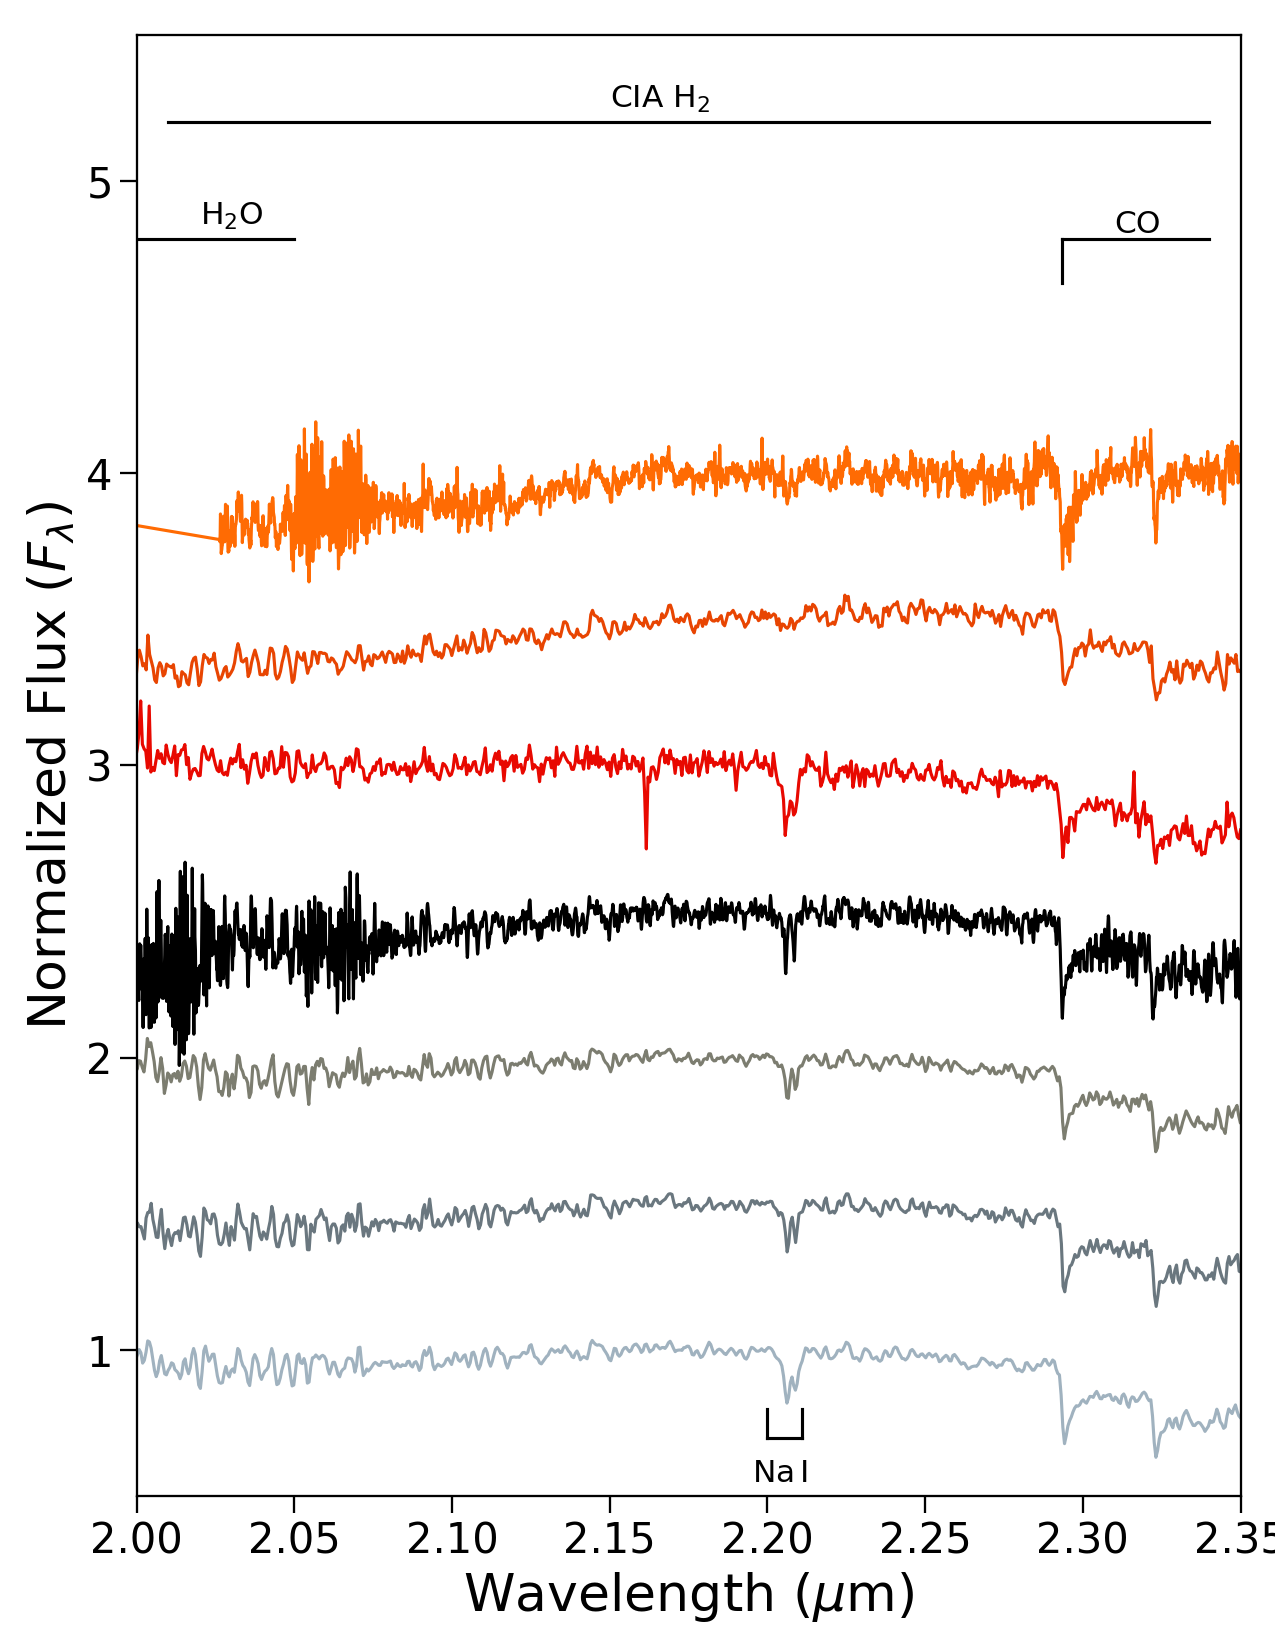
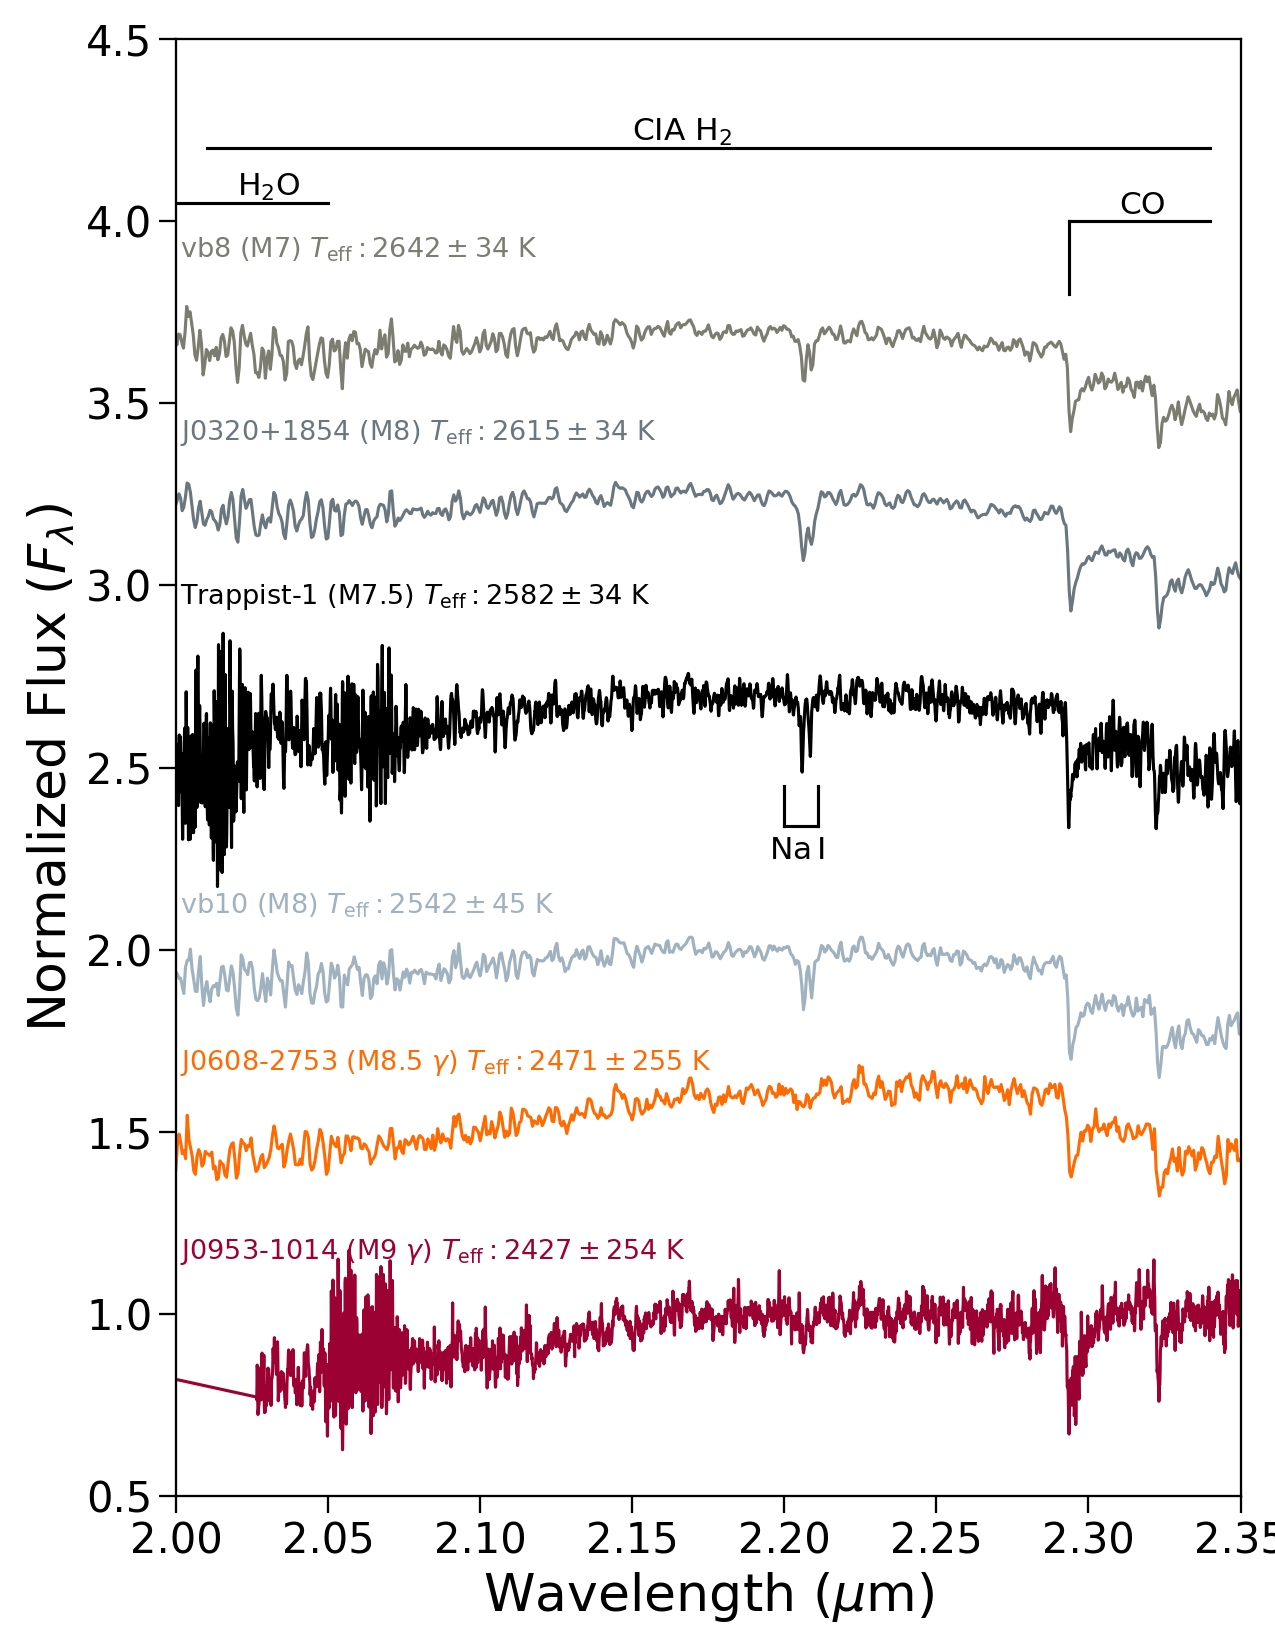
New version of figures for band-by-band teff sample, in teff order

diff --git a/Jbandteffcomp.py b/Jbandteffcomp.py
@@ -14,13 +14,10 @@ df_trap = pd.read_csv('Data/Gaia2306-0502 (M7.5) SED.txt', sep=" ", comment='#',
 df_vb8 = pd.read_csv('Data/field_comp/Gaia1655-0823 (M7) SED.txt', sep=" ", comment='#', header=None,
                        names=["w", "f", "err"])
 df_vb10 = pd.read_csv('Data/field_comp/Gaia1916+0508 (M8) SED.txt', sep=" ", comment='#', header=None,
-                       names=["w", "f", "err"])
-df_0320 = pd.read_csv('Data/field_comp/Gaia0320+1854 (M8) SED.txt', sep=" ", comment='#', header=None,
-                       names=["w", "f", "err"])
-
-# -------------- Comparison objects of the same Teff (young) ----------------------------------
-df_0253 = pd.read_csv('Data/young_comp/Gaia0253+3206 (M7beta) SED.txt', sep=" ", comment='#', header=None,
                       names=["w", "f", "err"])
+df_0320 = pd.read_csv('Data/field_comp/Gaia0320+1854 (M8) SED.txt', sep=" ", comment='#', header=None,
+                      names=["w", "f", "err"])
+# ----Young----
 df_0953 = pd.read_csv('Data/young_comp/Gaia0953-1014 (L0gamma) SED.txt', sep=" ", comment='#', header=None,
                       names=["w", "f", "err"])
 df_0608 = pd.read_csv('Data/young_comp/Gaia0608-2753 (M8.5gamma) SED.txt', sep=" ", comment='#', header=None,
@@ -42,9 +39,6 @@ norm_df_vb10 = df_vb10['f']/(np.average(norm_region7['f']))
 norm_region8 = df_0320[(df_0320['w'] >= 1.22) & (df_0320['w'] <= 1.23)]
 norm_df_0320 = df_0320['f']/(np.average(norm_region8['f']))
 
-norm_region5 = df_0253[(df_0253['w'] >= 1.22) & (df_0253['w'] <= 1.23)]
-norm_df_0253 = df_0253['f']/(np.average(norm_region5['f']))
-
 norm_region3 = df_0953[(df_0953['w'] >= 1.22) & (df_0953['w'] <= 1.23)]
 norm_df_0953 = df_0953['f']/(np.average(norm_region3['f']))
 
@@ -61,89 +55,92 @@ ax1 = fig.add_subplot(111)
 fig.set_size_inches(8.5, 11)
 plt.gcf().subplots_adjust(bottom=0.15, left=0.15)
 plt.xlim([1.12, 1.35])
-plt.ylim([0.25, 6])
+plt.ylim([0.25, 7])
 for axis in ['top', 'bottom', 'left', 'right']:  # Thicken the frame
     ax1.spines[axis].set_linewidth(1.1)
 
-# ------Tick size and Axes Labels --------
+# ------Tick size, Axes Labels, and layout --------
 ax1.tick_params(axis='both', labelsize=20, length=8, width=1.1)
 plt.xlabel('Wavelength ($\mu$m)', fontsize=25)
 plt.ylabel('Normalized Flux ($F_\lambda$)', fontsize=25)
+plt.tight_layout()
 
-# -------- Add data -----------
-ax1.plot(df_0320['w'], norm_df_0320, c='#A0B2BF')
-ax1.plot(df_vb10['w'], norm_df_vb10 + 0.6, c='#6A777F')
-ax1.plot(df_vb8['w'], norm_df_vb8 + 1.1, c='#7C7D70')
-ax1.plot(df_trap['w'], norm_df_trap + 1.8, c='k')
-ax1.plot(df_0253['w'], norm_df_0253 + 2.3, c='#E80901')  # M7 beta
-ax1.plot(df_0608['w'], norm_df_0608 + 2.75, c='#E84502')  # M8.5 gamma
-ax1.plot(df_0953['w'], norm_df_0953 + 3.25, c='#FF6B03')   # M9 gamma
+# -------- Add data and Label Sources-----------
+ax1.plot(df_0953['w'], norm_df_0953, c='#9B0132')
+ax1.annotate('J0953-1014 (M9 $\gamma$) $T_\mathrm{eff}: 2427 \pm 254$ K', xy=(1.121, 1.4), color='#9B0132', fontsize=13)
+ax1.plot(df_0608['w'], norm_df_0608 + 1, c='#FF6B03')
+ax1.annotate('J0608-2753 (M8.5 $\gamma$) $T_\mathrm{eff}: 2471 \pm 255$ K', xy=(1.121, 2.2), color='#FF6B03', fontsize=13)
+ax1.plot(df_vb10['w'], norm_df_vb10 + 2, c='#A0B2BF')
+ax1.annotate('vb10 (M8) $T_\mathrm{eff}: 2542 \pm 45$ K', xy=(1.121, 3.2), color='#A0B2BF', fontsize=13)
+ax1.plot(df_trap['w'], norm_df_trap + 3, c='k')
+ax1.annotate('Trappist-1 (M7.5) $T_\mathrm{eff}: 2582 \pm 34$ K', xy=(1.121, 4.3), color='k', fontsize=13)
+ax1.plot(df_0320['w'], norm_df_0320 + 4, c='#6A777F')
+ax1.annotate('J0320+1854 (M8) $T_\mathrm{eff}: 2615 \pm 34$ K', xy=(1.121, 5.2), color='#6A777F', fontsize=13)
+ax1.plot(df_vb8['w'], norm_df_vb8 + 5, c='#7C7D70')
+ax1.annotate('vb8 (M7) $T_\mathrm{eff}: 2642 \pm 34$ K', xy=(1.121, 6.2), color='#7C7D70', fontsize=13)
 
 
 # ------- Label Features --------------------------
 NaI = pd.DataFrame()
-NaI['x'] = [1.13656, 1.14269]
-NaI['y'] = [0.43, 0.43]
+NaI['x'] = [1.1383850, 1.1383850]
+NaI['y'] = [6.5, 6.7]
 plt.plot(NaI['x'], NaI['y'], color='k')
-ax1.annotate('Na$\,$I', xy=(1.133, .265), color='k', fontsize=15)
-# ----- Making each of the vertical lines on each end --------
+ax1.annotate('Na$\,$I', xy=(1.133, 6.75), color='k', fontsize=15)
 NaId = pd.DataFrame()
-NaId['x'] = [1.13656, 1.13656]
-NaId['y'] = [0.43, 0.53]
+NaId['x'] = [1.1408517, 1.1408517]
+NaId['y'] = [6.5, 6.7]
 plt.plot(NaId['x'], NaId['y'], color='k')
-NaId2 = pd.DataFrame()
-NaId2['x'] = [1.14269, 1.14269]
-NaId2['y'] = [0.43, 0.53]
-plt.plot(NaId2['x'], NaId2['y'], color='k')
+NaIhor = pd.DataFrame()
+NaIhor['x'] = [1.1383850, 1.1408517]
+NaIhor['y'] = [6.7, 6.7]
+plt.plot(NaIhor['x'], NaIhor['y'], color='k')
 
 KI1 = pd.DataFrame()
-KI1['x'] = [1.16569, 1.18225]
-KI1['y'] = [0.4, 0.4]
+KI1['x'] = [1.1692427, 1.1692427]
+KI1['y'] = [6.5, 6.7]
 plt.plot(KI1['x'], KI1['y'], color='k')
-ax1.annotate('K$\,$I', xy=(1.17, .265), color='k', fontsize=15)
-# ----- Making each of the vertical lines on each end --------
+ax1.annotate('K$\,$I', xy=(1.17, 6.75), color='k', fontsize=15)
 KI1up1 = pd.DataFrame()
-KI1up1['x'] = [1.16569, 1.16569]
-KI1up1['y'] = [0.4, 0.53]
+KI1up1['x'] = [1.1778406, 1.1778406]
+KI1up1['y'] = [6.5, 6.7]
 plt.plot(KI1up1['x'], KI1up1['y'], color='k')
-KI1up2 = pd.DataFrame()
-KI1up2['x'] = [1.18225, 1.18225]
-KI1up2['y'] = [0.4, 0.53]
-plt.plot(KI1up2['x'], KI1up2['y'], color='k')
+KI1hor = pd.DataFrame()
+KI1hor['x'] = [1.1692427, 1.1778406]
+KI1hor['y'] = [6.7, 6.7]
+plt.plot(KI1hor['x'], KI1hor['y'], color='k')
 
 FeH = pd.DataFrame()
 FeH['x'] = [1.19, 1.24]
-FeH['y'] = [5.25, 5.25]
+FeH['y'] = [6.7, 6.7]
 plt.plot(FeH['x'], FeH['y'], color='k')
-ax1.annotate('FeH', xy=(1.2, 5.3), color='k', fontsize=15)
+ax1.annotate('FeH', xy=(1.2, 6.75), color='k', fontsize=15)
 FeHd = pd.DataFrame()
 FeHd['x'] = [1.19, 1.19]
-FeHd['y'] = [5.25, 5.1]
+FeHd['y'] = [6.5, 6.7]
 plt.plot(FeHd['x'], FeHd['y'], color='k')
 
 KI2 = pd.DataFrame()
-KI2['x'] = [1.24175, 1.25616]
-KI2['y'] = [0.5, 0.5]
+KI2['x'] = [1.2436839, 1.2528860]
+KI2['y'] = [6.5, 6.5]
 plt.plot(KI2['x'], KI2['y'], color='k')
-ax1.annotate('K$\,$I', xy=(1.245, 0.35), color='k', fontsize=15)
+ax1.annotate('K$\,$I', xy=(1.245, 6.55), color='k', fontsize=15)
 KI2up1 = pd.DataFrame()
-KI2up1['x'] = [1.24175, 1.24175]
-KI2up1['y'] = [0.5, 0.6]
+KI2up1['x'] = [1.2436839, 1.2436839]
+KI2up1['y'] = [6.3, 6.5]
 plt.plot(KI2up1['x'], KI2up1['y'], color='k')
 KI2up2 = pd.DataFrame()
-KI2up2['x'] = [1.25616, 1.25616]
-KI2up2['y'] = [0.5, 0.6]
+KI2up2['x'] = [1.2528860, 1.2528860]
+KI2up2['y'] = [6.3, 6.5]
 plt.plot(KI2up2['x'], KI2up2['y'], color='k')
 
 H2O = pd.DataFrame()
 H2O['x'] = [1.32, 1.35]
-H2O['y'] = [5.35, 5.35]
+H2O['y'] = [6.35, 6.35]
 plt.plot(H2O['x'], H2O['y'], color='k')
-ax1.annotate('H$_\mathrm{2} $O', xy=(1.33, 5.4), color='k', fontsize=15)
+ax1.annotate('H$_\mathrm{2} $O', xy=(1.33, 6.4), color='k', fontsize=15)
 H2Od = pd.DataFrame()
 H2Od['x'] = [1.32, 1.32]
-H2Od['y'] = [5.2, 5.35]
+H2Od['y'] = [6.2, 6.35]
 plt.plot(H2Od['x'], H2Od['y'], color='k')
 
-plt.tight_layout()
 plt.savefig('Figures/Jbandteffcomp.png', dpi=150)

diff --git a/Kbandteffcomp.py b/Kbandteffcomp.py
@@ -6,20 +6,18 @@ import matplotlib.pyplot as plt
 # ------------------- Read in Spectra and Photometry files ---------------------------
 # ------------------------------------------------------------------------------------
 # Read  all in as pandas dataframes
-df_trap = pd.read_csv('Data/FIRE2306-0502 (M7.5) SED.txt', sep=" ", comment='#', header=None,
+df_trap = pd.read_csv('Data/Gaia2306-0502 (M7.5) SED.txt', sep=" ", comment='#', header=None,
                       names=["w", "f", "err"])
 
 # Comparison objects with same Teff
 # ----Field---
-df_vb8 = pd.read_csv('Data/field_comp/1655-0823 (M7) SED.txt', sep=" ", comment='#', header=None,
+df_vb8 = pd.read_csv('Data/field_comp/Gaia1655-0823 (M7) SED.txt', sep=" ", comment='#', header=None,
                        names=["w", "f", "err"])
-df_vb10 = pd.read_csv('Data/field_comp/1916+0508 (M8) SED.txt', sep=" ", comment='#', header=None,
-                       names=["w", "f", "err"])
-df_0320 = pd.read_csv('Data/field_comp/0320+1854 (M8) SED.txt', sep=" ", comment='#', header=None,
-                       names=["w", "f", "err"])
-# ----Young----
-df_0253 = pd.read_csv('Data/young_comp/Gaia0253+3206 (M7beta) SED.txt', sep=" ", comment='#', header=None,
+df_vb10 = pd.read_csv('Data/field_comp/Gaia1916+0508 (M8) SED.txt', sep=" ", comment='#', header=None,
                       names=["w", "f", "err"])
+df_0320 = pd.read_csv('Data/field_comp/Gaia0320+1854 (M8) SED.txt', sep=" ", comment='#', header=None,
+                      names=["w", "f", "err"])
+# ----Young----
 df_0953 = pd.read_csv('Data/young_comp/Gaia0953-1014 (L0gamma) SED.txt', sep=" ", comment='#', header=None,
                       names=["w", "f", "err"])
 df_0608 = pd.read_csv('Data/young_comp/Gaia0608-2753 (M8.5gamma) SED.txt', sep=" ", comment='#', header=None,
@@ -41,9 +39,6 @@ norm_df_vb10 = df_vb10['f']/(np.average(norm_region7['f']))
 norm_region8 = df_0320[(df_0320['w'] >= 2.16) & (df_0320['w'] <= 2.20)]
 norm_df_0320 = df_0320['f']/(np.average(norm_region8['f']))
 
-norm_region3 = df_0253[(df_0253['w'] >= 2.16) & (df_0253['w'] <= 2.20)]
-norm_df_0253 = df_0253['f']/(np.average(norm_region3['f']))
-
 norm_region4 = df_0953[(df_0953['w'] >= 2.16) & (df_0953['w'] <= 2.20)]
 norm_df_0953 = df_0953['f']/(np.average(norm_region4['f']))
 
@@ -59,7 +54,7 @@ ax1 = fig.add_subplot(111)
 fig.set_size_inches(8.5, 11)  # make figure size skinner to get more curvature of K-band 5 x 11 is ok
 plt.gcf().subplots_adjust(bottom=0.15, left=0.15)
 plt.xlim([2.0, 2.35])
-plt.ylim([0.5, 5.5])
+plt.ylim([0.5, 4.5])
 for axis in ['top', 'bottom', 'left', 'right']:  # Thicken the frame
     ax1.spines[axis].set_linewidth(1.1)
 
@@ -68,52 +63,56 @@ ax1.tick_params(axis='both', labelsize=20, length=8, width=1.1)
 plt.xlabel('Wavelength ($\mu$m)', fontsize=25)
 plt.ylabel('Normalized Flux ($F_\lambda$)', fontsize=25)
 
-# -------- Add data -----------
-ax1.plot(df_0320['w'], norm_df_0320, c='#A0B2BF')
-ax1.plot(df_vb10['w'], norm_df_vb10 + 0.5, c='#6A777F')
-ax1.plot(df_vb8['w'], norm_df_vb8 + 1, c='#7C7D70')
-ax1.plot(df_trap['w'], norm_df_trap + 1.5, c='k')
-ax1.plot(df_0253['w'], norm_df_0253 + 2, c='#E80901')
-ax1.plot(df_0608['w'], norm_df_0608 + 2.5, c='#E84502')
-ax1.plot(df_0953['w'], norm_df_0953 + 3, c='#FF6B03')
-
+# -------- Add data and Label Sources-----------
+ax1.plot(df_0953['w'], norm_df_0953, c='#9B0132')
+ax1.annotate('J0953-1014 (M9 $\gamma$) $T_\mathrm{eff}: 2427 \pm 254$ K', xy=(2.001, 1.15), color='#9B0132', fontsize=13)
+ax1.plot(df_0608['w'], norm_df_0608 + 0.6, c='#FF6B03')
+ax1.annotate('J0608-2753 (M8.5 $\gamma$) $T_\mathrm{eff}: 2471 \pm 255$ K', xy=(2.001, 1.67), color='#FF6B03', fontsize=13)
+ax1.plot(df_vb10['w'], norm_df_vb10 + 1, c='#A0B2BF')
+ax1.annotate('vb10 (M8) $T_\mathrm{eff}: 2542 \pm 45$ K', xy=(2.001, 2.1), color='#A0B2BF', fontsize=13)
+ax1.plot(df_trap['w'], norm_df_trap + 1.7, c='k')
+ax1.annotate('Trappist-1 (M7.5) $T_\mathrm{eff}: 2582 \pm 34$ K', xy=(2.001, 2.95), color='k', fontsize=13)
+ax1.plot(df_0320['w'], norm_df_0320 + 2.25, c='#6A777F')
+ax1.annotate('J0320+1854 (M8) $T_\mathrm{eff}: 2615 \pm 34$ K', xy=(2.001, 3.4), color='#6A777F', fontsize=13)
+ax1.plot(df_vb8['w'], norm_df_vb8 + 2.7, c='#7C7D70')
+ax1.annotate('vb8 (M7) $T_\mathrm{eff}: 2642 \pm 34$ K', xy=(2.001, 3.9), color='#7C7D70', fontsize=13)
 
 # ------- Label Features --------------------------
 H2O = pd.DataFrame()
 H2O['x'] = [2.00, 2.05]
-H2O['y'] = [4.8, 4.8]
+H2O['y'] = [4.05, 4.05]
 plt.plot(H2O['x'], H2O['y'], color='k')
-ax1.annotate('H$_\mathrm{2} $O', xy=(2.02, 4.85), color='k', fontsize=15)
+ax1.annotate('H$_\mathrm{2} $O', xy=(2.02, 4.07), color='k', fontsize=15)
 
 CIA_H2 = pd.DataFrame()
 CIA_H2['x'] = [2.01, 2.34]
-CIA_H2['y'] = [5.2, 5.2]
+CIA_H2['y'] = [4.2, 4.2]
 plt.plot(CIA_H2['x'], CIA_H2['y'], color='k')
-ax1.annotate('CIA H$_\mathrm{2} $', xy=(2.15, 5.25), color='k', fontsize=15)
+ax1.annotate('CIA H$_\mathrm{2} $', xy=(2.15, 4.22), color='k', fontsize=15)
 
 NaI = pd.DataFrame()
 NaI['x'] = [2.20, 2.211]
-NaI['y'] = [0.7, 0.7]
+NaI['y'] = [2.34, 2.34]
 plt.plot(NaI['x'], NaI['y'], color='k')
-ax1.annotate('Na$\,$I', xy=(2.195, .55), color='k', fontsize=15)
+ax1.annotate('Na$\,$I', xy=(2.195, 2.25), color='k', fontsize=15)
 # ----- Making each of the vertical lines on each end --------
 NaId = pd.DataFrame()
 NaId['x'] = [2.20, 2.20]
-NaId['y'] = [0.7, 0.8]
+NaId['y'] = [2.34, 2.45]
 plt.plot(NaId['x'], NaId['y'], color='k')
 NaId2 = pd.DataFrame()
 NaId2['x'] = [2.211, 2.211]
-NaId2['y'] = [0.7, 0.8]
+NaId2['y'] = [2.34, 02.45]
 plt.plot(NaId2['x'], NaId2['y'], color='k')
 
 CO = pd.DataFrame()
 CO['x'] = [2.29352, 2.34]
-CO['y'] = [4.8, 4.8]
+CO['y'] = [4, 4]
 plt.plot(CO['x'], CO['y'], color='k')
-ax1.annotate('CO', xy=(2.31, 4.82), color='k', fontsize=15)
+ax1.annotate('CO', xy=(2.31, 4.02), color='k', fontsize=15)
 COd = pd.DataFrame()
 COd['x'] = [2.29352, 2.29352]
-COd['y'] = [4.65, 4.8]
+COd['y'] = [3.8, 4]
 plt.plot(COd['x'], COd['y'], color='k')
 
 plt.tight_layout()

diff --git a/HbandTeffcomp.py b/HbandTeffcomp.py
@@ -6,29 +6,26 @@ import matplotlib.pyplot as plt
 # ------------------- Read in Spectra and Photometry files ---------------------------
 # ------------------------------------------------------------------------------------
 # Read  all in as pandas dataframes
-df_trap = pd.read_csv('Data/FIRE2306-0502 (M7.5) SED.txt', sep=" ", comment='#', header=None,
+df_trap = pd.read_csv('Data/Gaia2306-0502 (M7.5) SED.txt', sep=" ", comment='#', header=None,
                       names=["w", "f", "err"])
 
 # Comparison objects with same Teff
 # ----Field---
-df_vb8 = pd.read_csv('Data/field_comp/1655-0823 (M7) SED.txt', sep=" ", comment='#', header=None,
-                     names=["w", "f", "err"])
-df_vb10 = pd.read_csv('Data/field_comp/1916+0508 (M8) SED.txt', sep=" ", comment='#', header=None,
+df_vb8 = pd.read_csv('Data/field_comp/Gaia1655-0823 (M7) SED.txt', sep=" ", comment='#', header=None,
                        names=["w", "f", "err"])
-df_0320 = pd.read_csv('Data/field_comp/0320+1854 (M8) SED.txt', sep=" ", comment='#', header=None,
-                       names=["w", "f", "err"])
-# ----Young----
-df_0253 = pd.read_csv('Data/young_comp/Gaia0253+3206 (M7beta) SED.txt', sep=" ", comment='#', header=None,
+df_vb10 = pd.read_csv('Data/field_comp/Gaia1916+0508 (M8) SED.txt', sep=" ", comment='#', header=None,
                       names=["w", "f", "err"])
+df_0320 = pd.read_csv('Data/field_comp/Gaia0320+1854 (M8) SED.txt', sep=" ", comment='#', header=None,
+                      names=["w", "f", "err"])
+# ----Young----
 df_0953 = pd.read_csv('Data/young_comp/Gaia0953-1014 (L0gamma) SED.txt', sep=" ", comment='#', header=None,
                       names=["w", "f", "err"])
 df_0608 = pd.read_csv('Data/young_comp/Gaia0608-2753 (M8.5gamma) SED.txt', sep=" ", comment='#', header=None,
                       names=["w", "f", "err"])
 
+
 # -------- Drop a few spikes aka bad points (may not need with smoothing)----------------
-df_0253 = df_0253[(df_0253['w'] >= 1.42) & (df_0253['w'] <= 1.80)]
 df_0953 = df_0953[(df_0953['w'] >= 1.42) & (df_0953['w'] <= 1.80)]
-df_0253 = df_0253.drop(df_0253['f'].argmax())
 # Four bad points
 df_0953 = df_0953.drop(df_0953['f'].argmax())
 df_0953 = df_0953.drop(df_0953['f'].argmax())
@@ -50,9 +47,6 @@ norm_df_vb10 = df_vb10['f']/(np.average(norm_region7['f']))
 
 norm_region8 = df_0320[(df_0320['w'] >= 1.5) & (df_0320['w'] <= 1.52)]
 norm_df_0320 = df_0320['f']/(np.average(norm_region8['f']))
-
-norm_region3 = df_0253[(df_0253['w'] >= 1.5) & (df_0253['w'] <= 1.52)]
-norm_df_0253 = df_0253['f']/(np.average(norm_region3['f']))
 
 norm_region4 = df_0953[(df_0953['w'] >= 1.5) & (df_0953['w'] <= 1.52)]
 norm_df_0953 = df_0953['f']/(np.average(norm_region4['f']))
@@ -96,41 +90,47 @@ for axis in ['top', 'bottom', 'left', 'right']:  # Thicken the frame
 ax1.tick_params(axis='both', labelsize=20, length=8, width=1.1)
 plt.xlabel('Wavelength ($\mu$m)', fontsize=25)
 plt.ylabel('Normalized Flux ($F_\lambda$)', fontsize=25)
+plt.tight_layout()
 
-# -------- Add data -----------
-ax1.plot(df_0320['w'], norm_df_0320, c='#A0B2BF')
-ax1.plot(df_vb10['w'], norm_df_vb10 + 0.3, c='#6A777F')
-ax1.plot(df_vb8['w'], norm_df_vb8 + 0.6, c='#7C7D70')
-ax1.plot(df_trap['w'], norm_df_trap + 0.9, c='k')
-ax1.plot(df_0253['w'], norm_df_0253 + 1.3, c='#E80901')
-ax1.plot(df_0608['w'], norm_df_0608 + 1.7, c='#E84502')
-ax1.plot(df_0953['w'], norm_df_0953 + 2.1, c='#FF6B03')
+# -------- Add data and Label Sources-----------
+ax1.plot(df_0953['w'], norm_df_0953, c='#9B0132')
+ax1.annotate('J0953-1014 (M9 $\gamma$) $T_\mathrm{eff}: 2427 \pm 254$ K', xy=(1.421, 0.7), color='#9B0132', fontsize=13)
+ax1.plot(df_0608['w'], norm_df_0608 + 0.5, c='#FF6B03')
+ax1.annotate('J0608-2753 (M8.5 $\gamma$) $T_\mathrm{eff}: 2471 \pm 255$ K', xy=(1.421, 1.9), color='#FF6B03', fontsize=13)
+ax1.plot(df_vb10['w'], norm_df_vb10 + 1.2, c='#A0B2BF')
+ax1.annotate('vb10 (M8) $T_\mathrm{eff}: 2542 \pm 45$ K', xy=(1.421, 2.35), color='#A0B2BF', fontsize=13)
+ax1.plot(df_trap['w'], norm_df_trap + 1.7, c='k')
+ax1.annotate('Trappist-1 (M7.5) $T_\mathrm{eff}: 2582 \pm 34$ K', xy=(1.421, 2.95), color='k', fontsize=13)
+ax1.plot(df_0320['w'], norm_df_0320 + 2.2, c='#6A777F')
+ax1.annotate('J0320+1854 (M8) $T_\mathrm{eff}: 2615 \pm 34$ K', xy=(1.421, 3.4), color='#6A777F', fontsize=13)
+ax1.plot(df_vb8['w'], norm_df_vb8 + 2.7, c='#7C7D70')
+ax1.annotate('vb8 (M7) $T_\mathrm{eff}: 2642 \pm 34$ K', xy=(1.421, 3.9), color='#7C7D70', fontsize=13)
 
 # ------- Label Features --------------------------
 H2O1 = pd.DataFrame()
 H2O1['x'] = [1.3, 1.51]
-H2O1['y'] = [3.6, 3.6]
+H2O1['y'] = [4.1, 4.1]
 plt.plot(H2O1['x'], H2O1['y'], color='k')
-ax1.annotate('H$_\mathrm{2}$O', xy=(1.45, 3.65), color='k', fontsize=15)
+ax1.annotate('H$_\mathrm{2}$O', xy=(1.45, 4.15), color='k', fontsize=15)
 
 FeH = pd.DataFrame()
 FeH['x'] = [1.581, 1.66]
-FeH['y'] = [4, 4]
+FeH['y'] = [4.2, 4.2]
 plt.plot(FeH['x'], FeH['y'], color='k')
-ax1.annotate('FeH', xy=(1.581, 4.01), color='k', fontsize=15)
+ax1.annotate('FeH', xy=(1.581, 4.21), color='k', fontsize=15)
 FeHd = pd.DataFrame()
 FeHd['x'] = [1.581, 1.581]
-FeHd['y'] = [3.85, 4]
+FeHd['y'] = [4.05, 4.2]
 plt.plot(FeHd['x'], FeHd['y'], color='k')
 
 H2O = pd.DataFrame()
 H2O['x'] = [1.75, 2.05]
-H2O['y'] = [4.25, 4.25]
+H2O['y'] = [4.1, 4.1]
 plt.plot(H2O['x'], H2O['y'], color='k')
-ax1.annotate('H$_\mathrm{2}$O', xy=(1.76, 4.28), color='k', fontsize=15)
+ax1.annotate('H$_\mathrm{2}$O', xy=(1.76, 4.15), color='k', fontsize=15)
 H2Od = pd.DataFrame()
 H2Od['x'] = [1.75, 1.75]
-H2Od['y'] = [4.1, 4.25]
+H2Od['y'] = [3.95, 4.1]
 plt.plot(H2Od['x'], H2Od['y'], color='k')
 
 # CH4 = pd.DataFrame()
